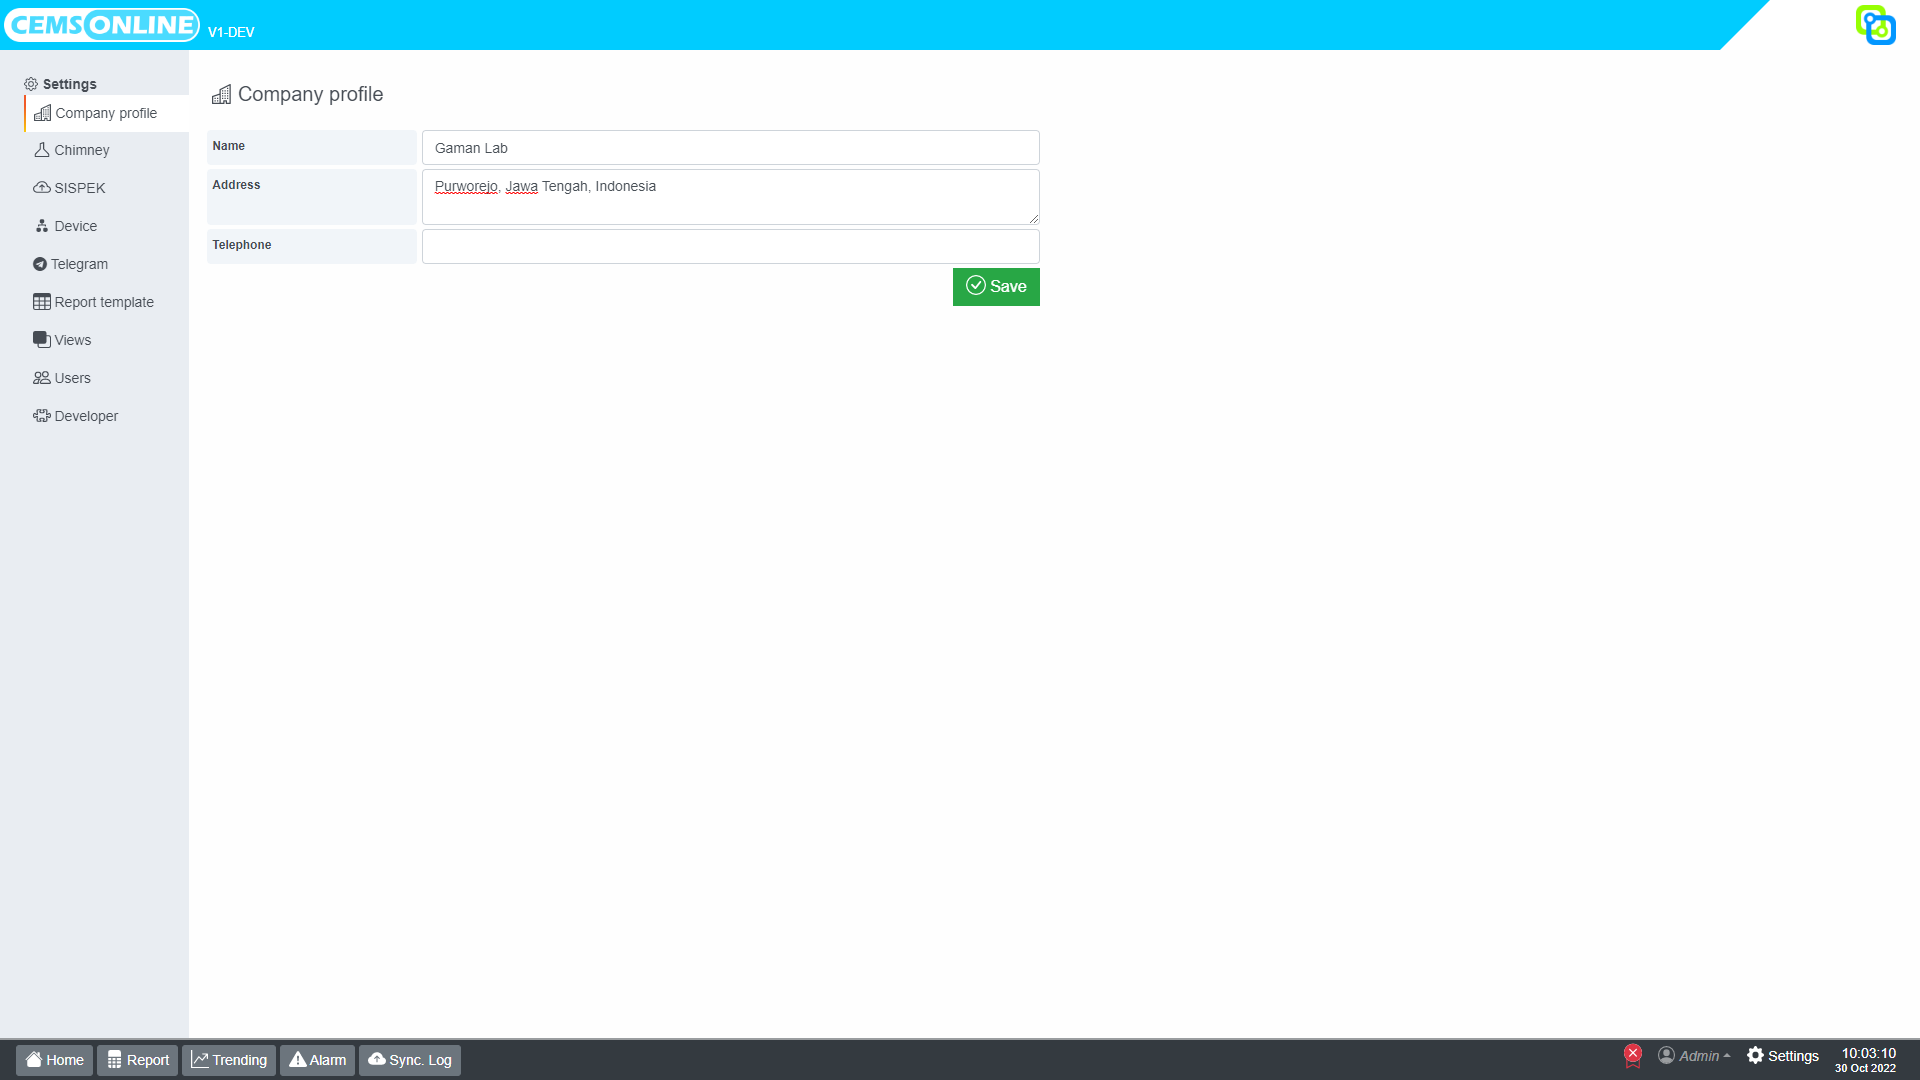
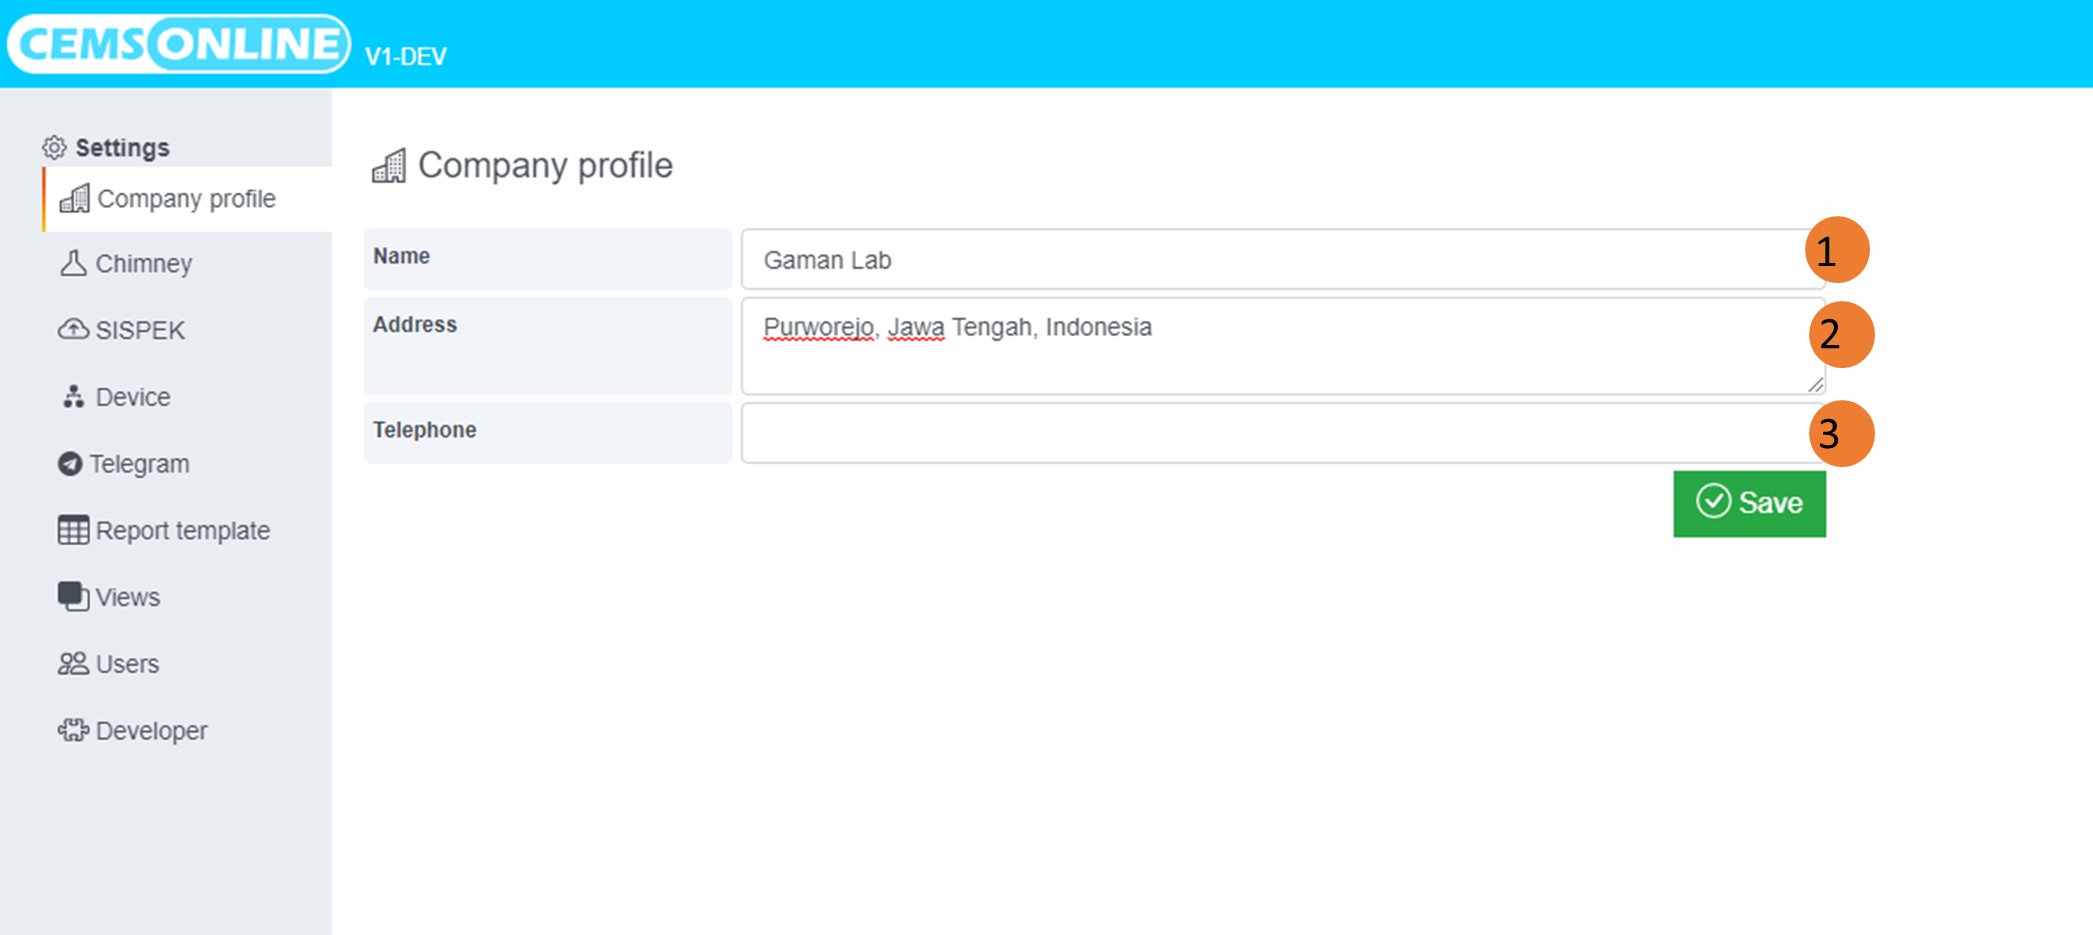
small update

diff --git a/docs/.vuepress/config.js b/docs/.vuepress/config.js
@@ -84,7 +84,7 @@ module.exports = {
               text: 'Chimney',
               sidebarDepth: 3,
               collapsable: true,
-              link: '/setting/chimney/parameter.html',
+              link: '/setting/chimney/readme.md',
               children: ['/setting/chimney/parameter.md'],
             },
             '/setting/sispek/readme.md',

diff --git a/docs/setting/readme.md b/docs/setting/readme.md
@@ -1,31 +1,18 @@
 # Setting
 
-Pada halaman setting terdapat beberapa menu untuk melakukan pengaturan pada aplikasi. 
-Menu-menu tersebut diantaranya adalah :
+Menu Settings merupakan menu yang berfungsi untuk melakukan pengaturan terkait penggunaan system aplikasi HAWA CEMS Online. Berikut penjelasan sekilas dari menu Settings:
 
-1. [Company profile](./company-profile/readme.md)  
-   Untuk mengatur profil perusahaan yang menggunakan aplikasi Hawa CEMS Online.
+![Menu Settings](./menu-settings.png)
 
-2. [Chimney](./chimney/readme.md)     
-   Untuk melakukan melakukan pengaturan-pengaturan terhadap cerobong yang terdaftar pada aplikasi.
+|No.|Nama Menu|Penjelasan|
+|---|---|---|
+|1.|[Company profile](./company-profile/readme.md)  |Berisi mengenai profil Perusahaan yang menggunakan Aplikasi HAWA CEMS Online|
+|2.|[Chimney](./chimney/readme.md)|Untuk melakukan pengaturan cerobong yang terdaftar pada aplikasi|
+|3.|[SISPEK](./sispek/readme.md)|Untuk melakukan pengaturan server dan akun SISPEK|
+|4.|[Device](./device/readme.md)|Pengaturan terhadap perangkat sumber data yang akan tersambung dengan aplikasi seperti analyzer, PLC, DAS, dll|
+|5.|[Telegram](./telegram/readme.md)|Untuk mengatur fitur notifikasi aplikasi yang akan dikirimkan melalui aplikasi Telegram|
+|6.|[Report template](./report-template/readme.md)|Untuk mengelola template report|
+|7.| [Views](./views/readme.md)  |Untuk mengelola tampilan pada aplikasi yang berkaitan dengan visualisasi data secara realtime atau menggunakan custom query|
+|8.|[Users](./users/readme.md)  |Untuk mengelola pengguna dan akses pengguna aplikasi|
+|9.|[Developer](./developer/readme.md)|Untuk mengelola token yang digunakan untuk otentikasi API|
 
-3. [SISPEK](./sispek/readme.md)  
-   Untuk melakukan pengaturan server dan akun SISPEK.
-
-4. [Device](./device/readme.md)  
-   Pengaturan terhadap perangkat sumber data seperti analyzer, PLC, DAS, dll.
-
-5. [Telegram](./telegram/readme.md)  
-   Untuk mengatur fitur notifikasi pada telegram.
-
-6. [Report template](./report-template/readme.md)
-   Untuk mengelola template laporan yang nantinya bisa digunakan pada menu `Report`.
-
-7. [Views](./views/readme.md)  
-   Mengelola `view` (istilah pada hawa untuk tampilan Home atau tampilan lain yang berkaitan dengan visualisasi data secara realtime atau menggunakan custom query).
-
-8. [Users](./users/readme.md)  
-   Untuk mengelola akses dan pengguna aplikasi Hawa CEMS Online.
-
-9.  [Developer](./developer/readme.md)  
-    Untuk mengelola token yang digunakan untuk mengakses API Hawa CEMS Online.

diff --git a/docs/setting/company-profile/readme.md b/docs/setting/company-profile/readme.md
@@ -1,21 +1,15 @@
 # Company Profile
 
-> Untuk mengakses menu Company Profile anda harus login dengan pengguna yang memiliki role administrator.
-> Setelah itu klik menu `Settings > Company Profile`.
+Menu Company Profile ini digunakan untuk mengatur identitas perusahaan yang menggunakan aplikasi HAWA CEMS Online. Untuk dapat mengakses menu Company Profile anda harus login dengan pengguna yang memiliki role administrator. Setelah itu klik menu `Settings > Company Profile`.
 
 ![Company Profile](./img//company-profile.png)
 
+Profil perusahaan ini harus diisi sesuai dengan kondisi aktual karena selain sebagai informasi user perusahaan, menu profil ini menjadi bagian untuk validasi lisensi dan dapat pula di gunakan sebagai template laporan.
 
-Halaman ini digunakan untuk mengatur identitas perusahaan yang menggunakan aplikasi Hawa CEMS Online.
+Berikut kolom isian yang berada pada menu Company Profile.
 
-Kolom yang dapat diatur pada hamalan ini diantaranya adalah:
-
-| Kolom     | Deskripsi                | Field template laporan |
-| --------- | ------------------------ | ---------------------- |
-| Name      | Nama lengkap perusahaan  | company.name           |
-| Address   | Alamat perusahaan        | company.address        |
-| Telephone | Nomor telepon perusahaan | company.telephone      |
-
-Data pada kolom-kolom tersebut juga bisa digunakan pada template laporan.
-
-Profil perusahaan ini harus diisi sesuai dengan kondisi aktual karena selain sebagai informasi pada aplikasi, ini juga akan menjadi bagian untuk validasi lisensi.
+| No  | Kolom     | Deskripsi                | Field pada template laporan |
+| --- | --------- | ------------------------ | --------------------------- |
+| 1   | Name      | Nama lengkap perusahaan  | company.name                |
+| 2   | Address   | Alamat perusahaan        | company.address             |
+| 3   | Telephone | Nomor telepon perusahaan | company.telephone           |

diff --git a/docs/setting/chimney/readme.md b/docs/setting/chimney/readme.md
@@ -1,1 +1,3 @@
 # Chimney
+
+Menu Chimney ini digunakan untuk untuk melakukan pengaturan cerobong yang terdaftar pada aplikasi HAWA CEMS Online. Sebelum mulai menggunakan aplikasi HAWA CEMS Online, anda di haruskan untuk melakukan pengaturan cerobong yang akan di hubungkan dengan aplikasi monitoring ini.
